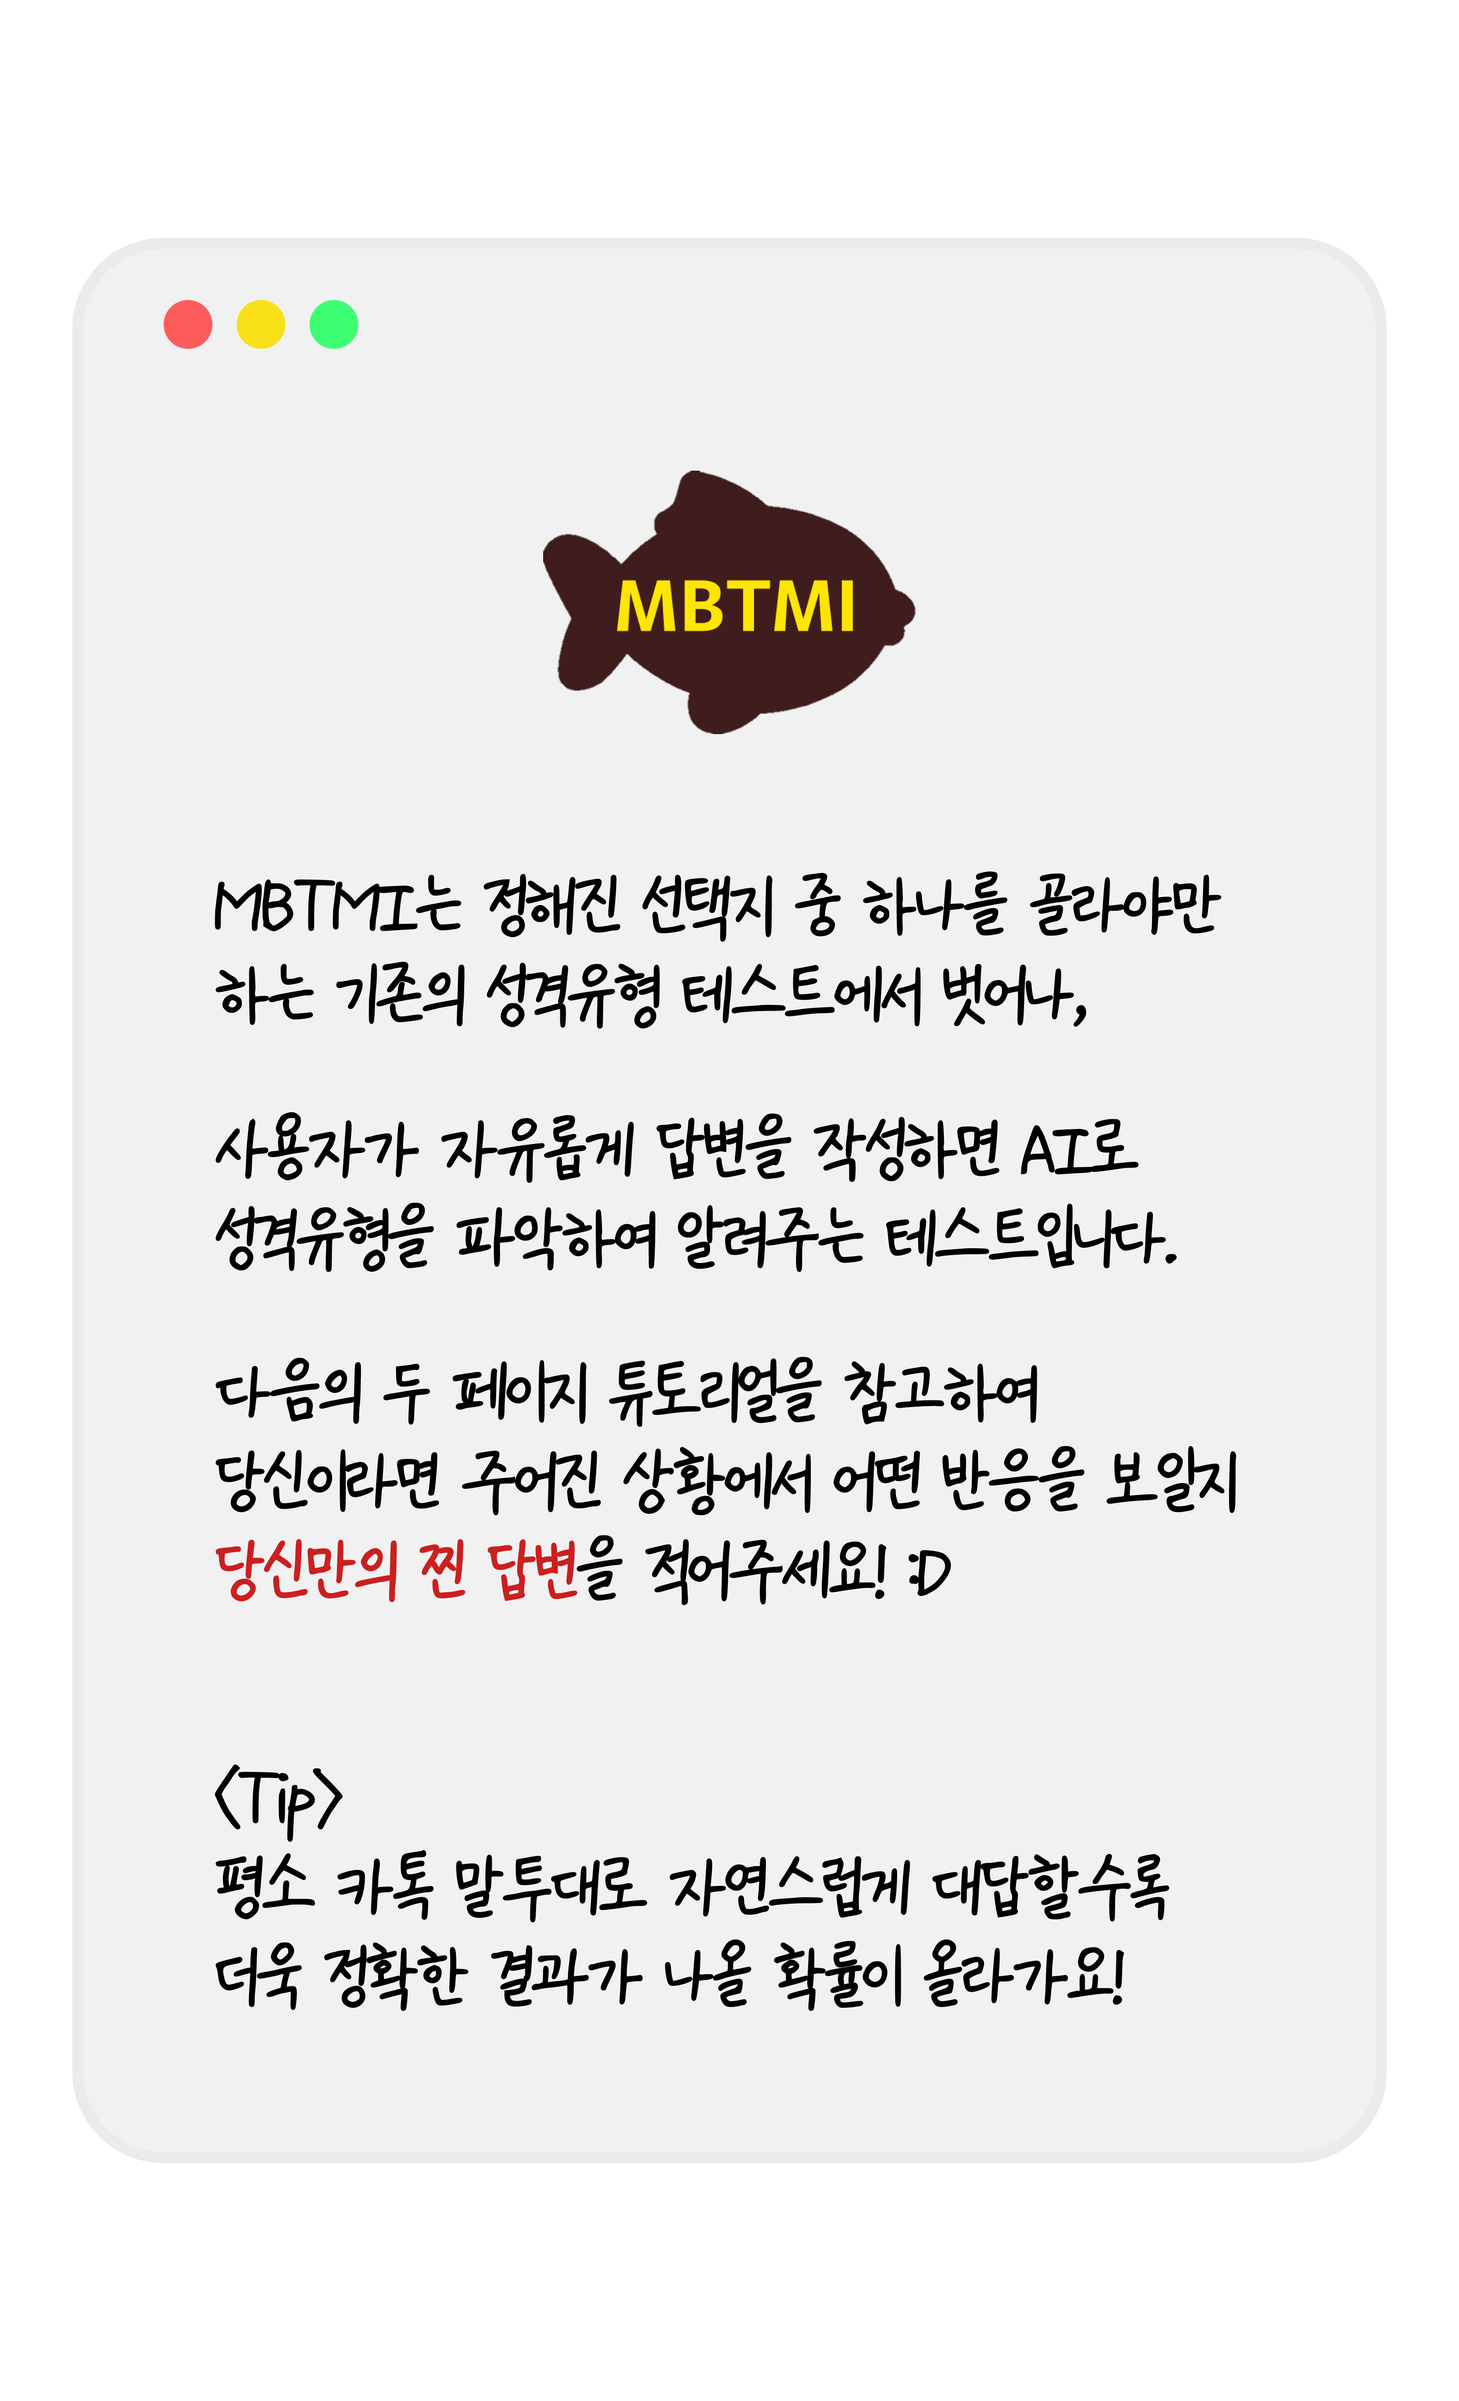
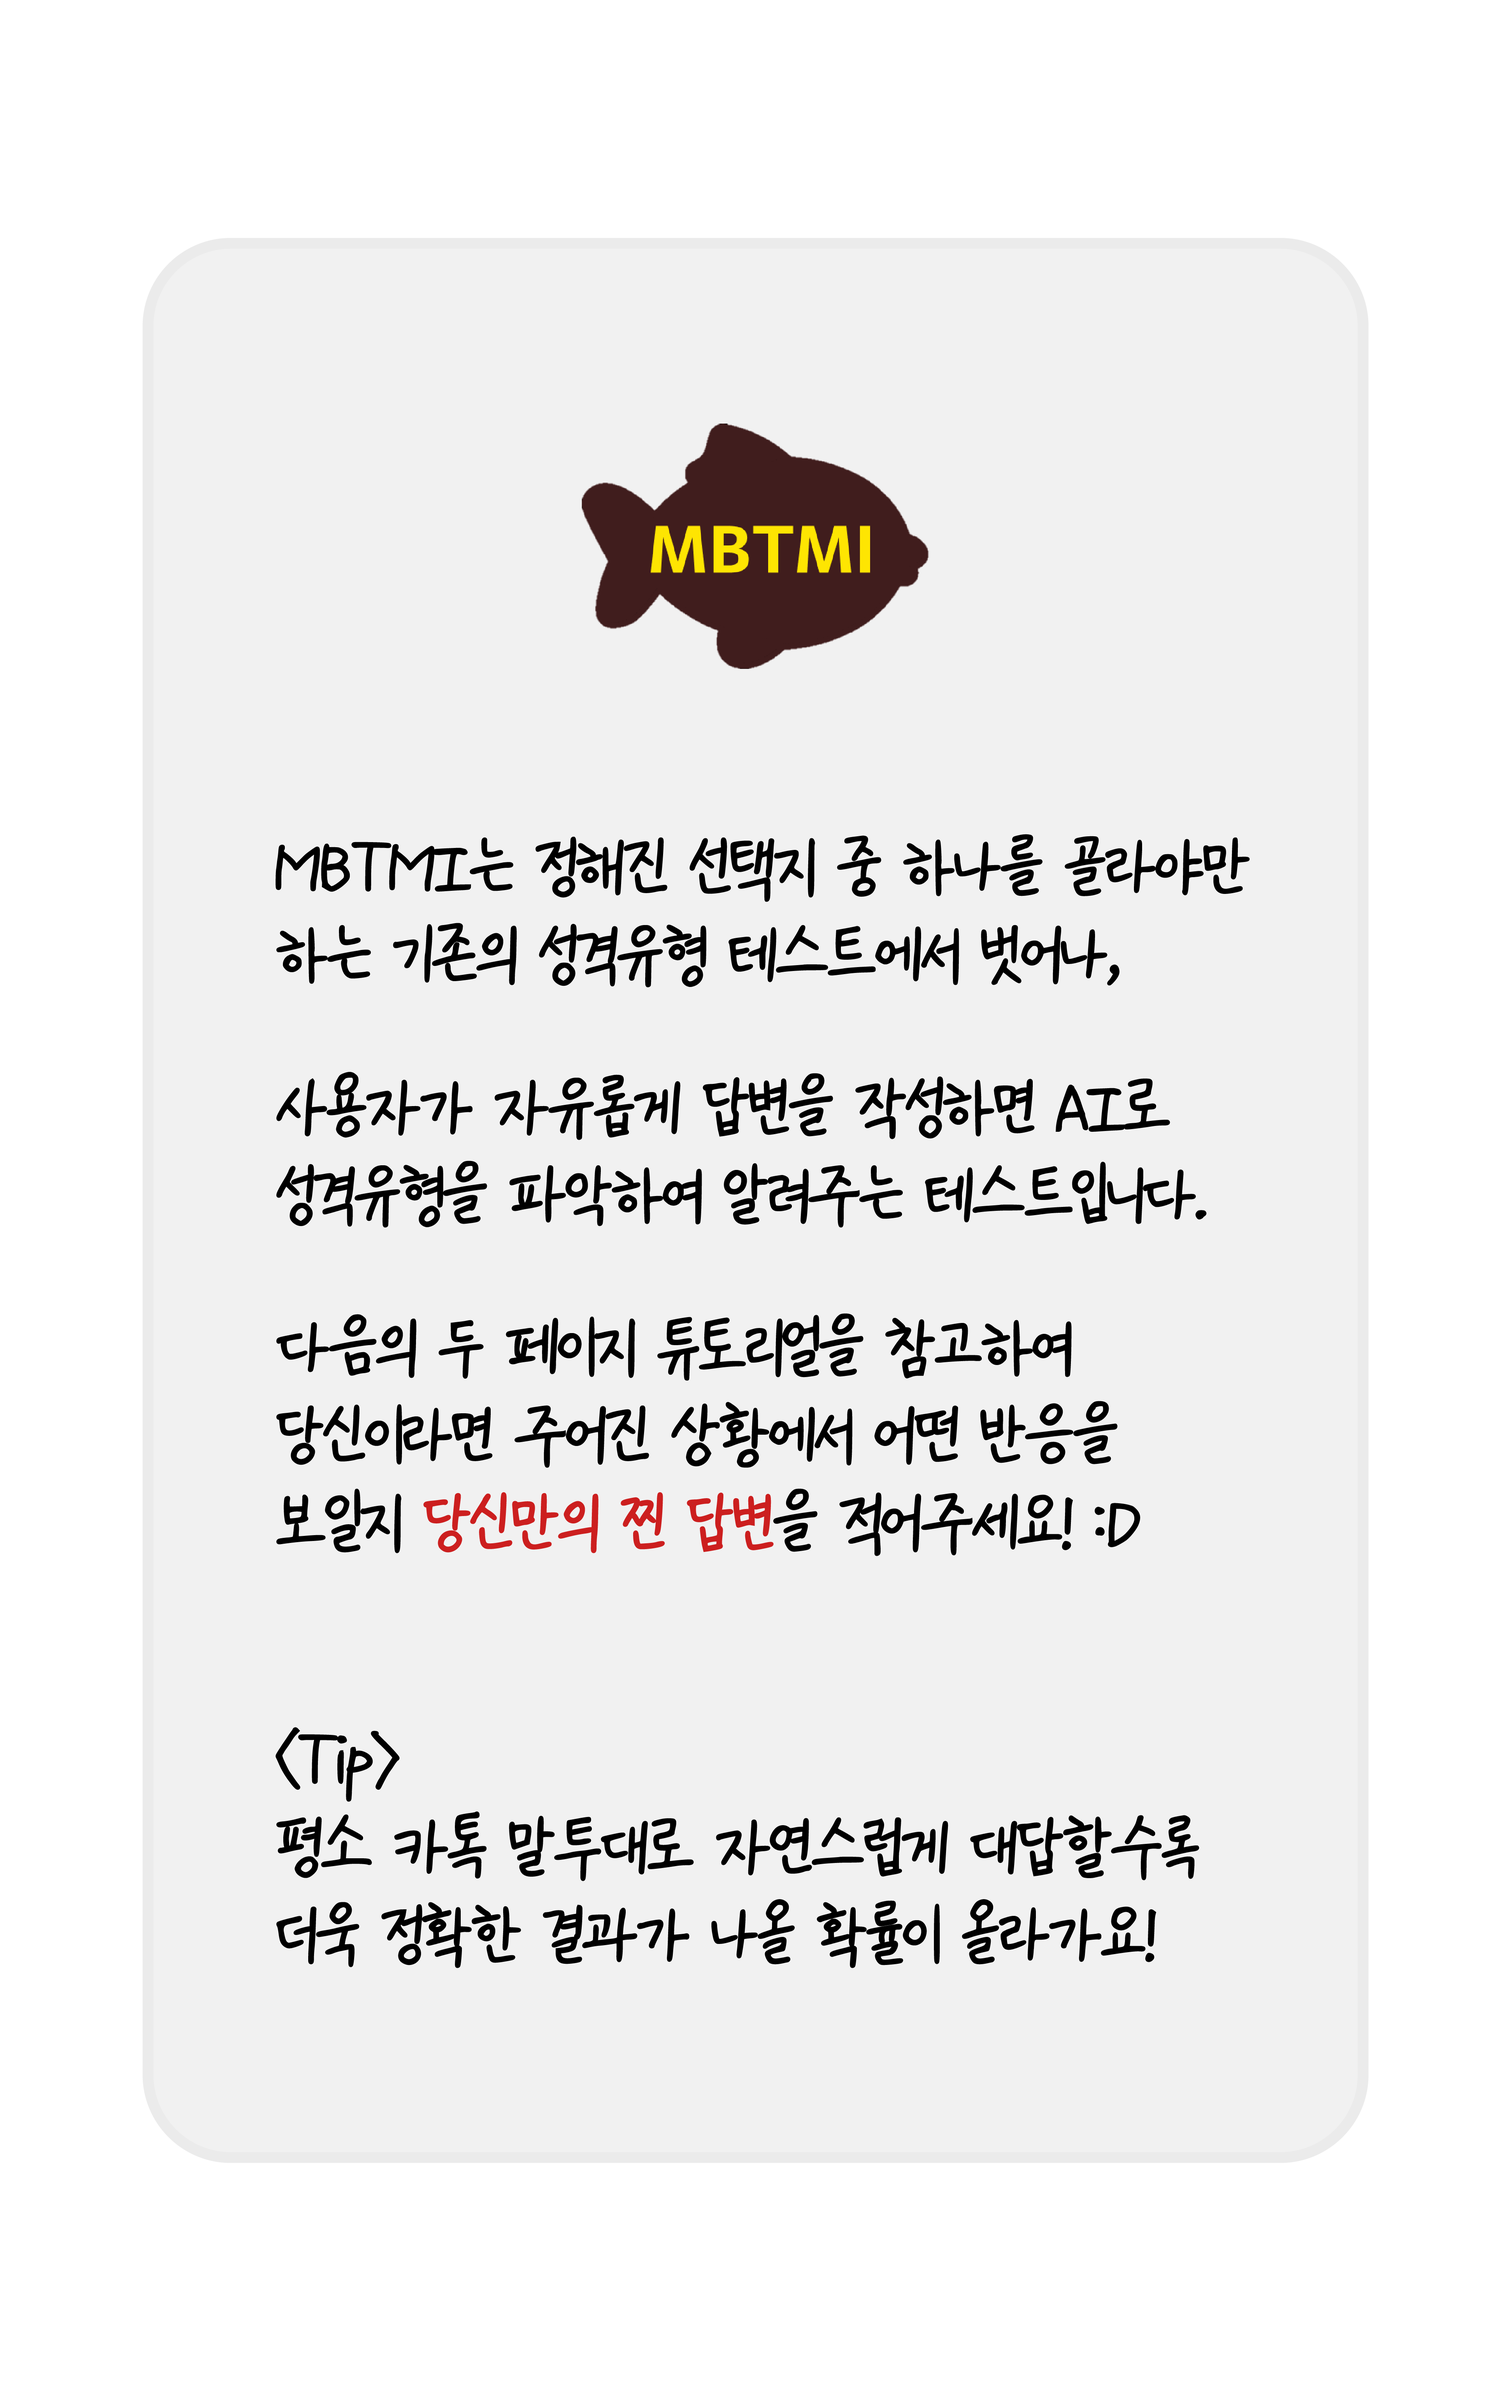
- fix: 기능 및 화면 수정
- 카카오 api 모듈을 custom btn이 활성화 되어 있을 때 불러오도록 수정했습니다.
- 참여 유저수를 랜딩 화면에 띄우도록 변경했습니다.
- useEffect에 경쟁 병합을 방지하였습니다.
- description의 이미지를 변경했습니다.

diff --git a/client/src/app/page.tsx b/client/src/app/page.tsx
@@ -1,27 +1,32 @@
 'use client';
 
+import NumberCount from '@/components/chat/NumberCount';
 import ChoiceSex from '@/components/ChoiceSex';
 import Footer from '@/components/layout/Footer';
 import Loading from '@/components/Loading';
 import Logo from '@/components/svg/Logo';
 import { PATH } from '@/config';
+import useGetNumber from '@/hooks/useGetNumber';
 import useRedirectIfKeyExists from '@/hooks/usePageSwitch';
 
-//const NUMBER = 1000;
 export default function Home() {
   const isLoading = useRedirectIfKeyExists(PATH.chatingList);
-  //const [isNumberLoading, userNumber] = useGetNumber();
-  if (isLoading) return <Loading />;
+  const [isNumberLoading, userNumber] = useGetNumber();
+  if (isLoading && isNumberLoading) return <Loading />;
 
   return (
     <main className="flex w-full min-h-screen max-w-xl m-auto flex-col items-center py-8 px-4 bg-bgYellow">
-      <section className="w-100 flex flex-col mb-2">
-        <span className="px-2 border-x-2 border-solid font-bold border-[#7F730C] text-[#7F730C]">
+      <section className="w-100 flex flex-col mb-2 text-center">
+        <span className="px-2 border-x-2 border-solid font-bold border-[#bcb77ffe] text-[#7F730C]">
           AI 가 분석하는 나의 카톡 말투는?
+        </span>
+        <span className="px-2 border-x-2 border-solid font-bold border-[#bcb77ffe] text-[#7F730C]">
+          현재 까지 참여한 유저 수는 <NumberCount number={userNumber} />명
+          입니다.
         </span>
       </section>
       <h1 className="text-center font-black text-2xl leading-normal text-bgBrown mb-8">
-        채팅에 직접 답변하는 <br /> 대화형 성격테스트에 참여해보세요!
+        채팅에 직접 답변하는 <br /> 대화형 성격테스트에 참여해보세요! <br />
       </h1>
       <Logo width="70%" height="70%" />
 

diff --git a/client/src/hooks/useLocalStorage.ts b/client/src/hooks/useLocalStorage.ts
@@ -1,5 +1,5 @@
 'use client';
-import { useEffect, useState, useCallback } from 'react';
+import { useEffect, useState } from 'react';
 
 /**
  * @description 페이지 새로 고침을 통해 상태가 유지되도록 로컬 저장소에 동기화합니다.
@@ -20,28 +20,22 @@ function useLocalStorage<T>(key: string, initialValue: T) {
 
       return item ? JSON.parse(item) : initialValue;
     } catch (error) {
-      console.error(error);
-
       return initialValue;
     }
   });
 
-  const setValue = useCallback(
-    (value: T | ((val: T) => T)) => {
-      try {
-        const valueToStore =
-          value instanceof Function ? value(storedValue) : value;
-        setStoredValue(valueToStore);
-        if (typeof window !== 'undefined') {
-          window.localStorage.setItem(key, JSON.stringify(valueToStore));
-        }
-      } catch (error) {
-        console.error(error);
+  const setValue = (value: T | ((val: T) => T)) => {
+    try {
+      const valueToStore =
+        value instanceof Function ? value(storedValue) : value;
+      setStoredValue(valueToStore);
+      if (typeof window !== 'undefined') {
+        window.localStorage.setItem(key, JSON.stringify(valueToStore));
       }
-    },
-    [key, storedValue],
-  );
-
+    } catch (error) {
+      throw new Error('storage 작업 문제 처리에서 에러가 발생했습니다');
+    }
+  };
   const [hasMounted, setHasMounted] = useState(false);
 
   useEffect(() => {

diff --git a/client/src/components/share/ShariApi.tsx b/client/src/components/share/ShariApi.tsx
@@ -29,7 +29,7 @@ export default function ShariApi(
           prop.setIsExpanded(true);
         })
         .catch(error => {
-          console.error(error);
+          throw new Error(error);
         });
     } else {
       setIsNotShareApi(true);
@@ -53,7 +53,7 @@ export default function ShariApi(
       {isNotShareApi &&
         createPortal(
           <div className="fixed top-0 right-0 w-full h-full flex justify-center items-center z-[9999] backdrop-blur ">
-            <section className="w-80 h-[40%] bg-white p-2 flex flex-col items-center justify-center rounded-xl">
+            <section className="w-80 h-[50%] bg-white py-10 px-4 flex flex-col items-center justify-center rounded-xl ">
               <header className="flex items-center justify-between w-full p-2 mb-4">
                 <h1 className="font-bold text-2xl">Custom SNS Share</h1>
                 <button className="text-xl" onClick={handleModal}>

diff --git a/client/src/app/chating-list/page.tsx b/client/src/app/chating-list/page.tsx
@@ -5,18 +5,16 @@ import ChatingHeader from '@/components/layout/ChatingHeader';
 import Loading from '@/components/Loading';
 import SubmitBtn from '@/components/SubmitBtn';
 import useGetTokenAndVisited from '@/hooks/useGetAnswer';
-import useGetNumber from '@/hooks/useGetNumber';
 
 export default function ChatingList() {
   // 전체 정보 받아오기
   const [isLoading, question, userInfo, token] = useGetTokenAndVisited();
-  const [, number] = useGetNumber();
-  //const isLoading = false;
+
   if (isLoading) return <Loading />;
 
   return (
     <>
-      <ChatingHeader number={number + 1000} />
+      <ChatingHeader />
       <article className="w-full relative">
         <div>
           {question.map(item => (

diff --git a/client/src/components/layout/ChatingHeader.tsx b/client/src/components/layout/ChatingHeader.tsx
@@ -1,14 +1,9 @@
 'use client';
 
-import NumberCount from '@/components/chat/NumberCount';
-
-export default function ChatingHeader({ number }: { number?: number }) {
+export default function ChatingHeader() {
   return (
     <header className="w-full p-2 border-b-2 border-solid sticky top-0 bg-white z-10 flex items-center justify-between">
       <h2 className="font-bold text-2xl">채팅</h2>
-      <h3 className="font-bold">
-        참여 유저수: <NumberCount number={number} />
-      </h3>
     </header>
   );
 }

diff --git a/client/src/app/layout.tsx b/client/src/app/layout.tsx
@@ -38,9 +38,6 @@ export default function RootLayout({
           src="https://pagead2.googlesyndication.com/pagead/js/adsbygoogle.js?client=ca-pub-1871872713282095"
           crossOrigin="anonymous"></script>
         <link rel="icon" sizes="any" href="/favicon.ico" />
-        <script
-          defer
-          src="https://developers.kakao.com/sdk/js/kakao.min.js"></script>
       </head>
       <body className={`${openSans.className}`}>
         <GoogleAnalytics />

diff --git a/client/src/components/ResultMyChat.tsx b/client/src/components/ResultMyChat.tsx
@@ -34,7 +34,7 @@ export default function ResultMyChat() {
       })
       .catch(e => {
         handleError.showBoundary(e);
-        console.log('데이터를 불러오는 과정에서 문제가 발생했습니다.');
+        throw new Error('데이터를 불러오는 과정에서 문제가 발생했습니다.');
       });
 
     // eslint-disable-next-line react-hooks/exhaustive-deps

diff --git a/client/src/hooks/useGetOneAnswer.ts b/client/src/hooks/useGetOneAnswer.ts
@@ -61,7 +61,8 @@ export default function useGetOneAnswer(id: Id): [boolean, Data, UserInfo] {
     return () => {
       ignore = true;
     };
-  }, [token, visited, id, router, saveToken, saveVisited]);
+    // eslint-disable-next-line react-hooks/exhaustive-deps
+  }, [token, visited, id]);
 
   return [isLoading, question!, userInfo];
 }

diff --git a/client/src/hooks/useGetResultPageAnswer.ts b/client/src/hooks/useGetResultPageAnswer.ts
@@ -33,7 +33,7 @@ export default function useGetResultPageAnswer(
         }
       })
       .catch(() => {
-        console.log('데이터를 불러오는 과정에서 문제가 발생했습니다.');
+        throw new Error('데이터를 불러오는 과정에서 문제가 발생했습니다.');
       });
 
     return () => {

diff --git a/client/src/hooks/useGetAnswer.ts b/client/src/hooks/useGetAnswer.ts
@@ -63,7 +63,8 @@ export default function useGetTokenAndVisited(): [
     return () => {
       ignore = true;
     };
-  }, [token, visited, saveToken, saveVisited, router]);
+    // eslint-disable-next-line react-hooks/exhaustive-deps
+  }, [token, visited, router]);
 
   return [isLoading, questions, userInfo, token!];
 }

diff --git a/client/src/hooks/useSetVisited.ts b/client/src/hooks/useSetVisited.ts
@@ -24,5 +24,6 @@ export default function useSetVisited(isVisited: boolean, pageId: Id) {
     return () => {
       clearTimeout(id);
     };
-  }, [isVisiting, isVisited, pageId, saveVisiting]);
+    /* eslint-disable react-hooks/exhaustive-deps */
+  }, [isVisiting, isVisited, pageId]);
 }
